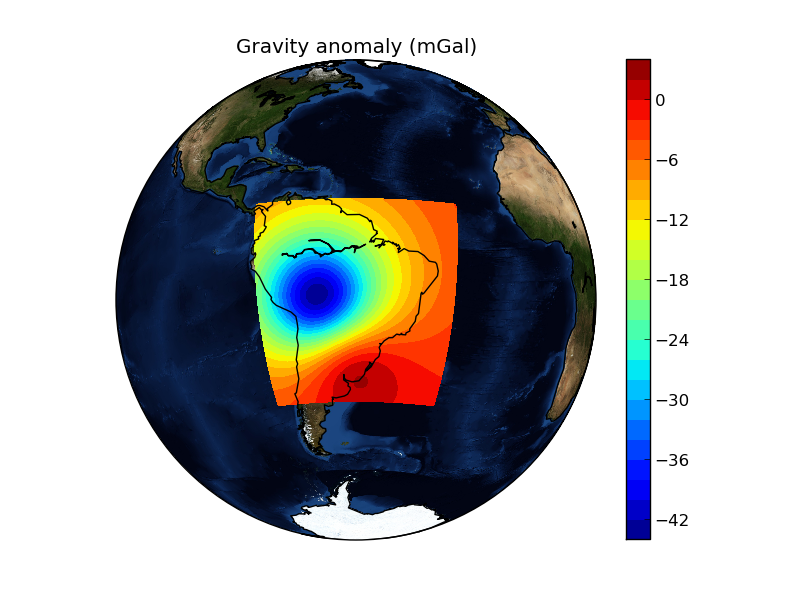
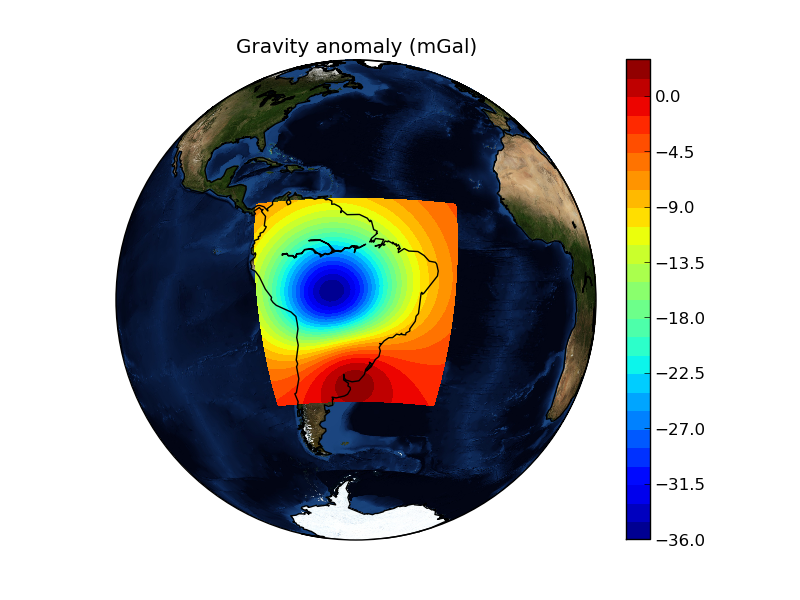
Moved tesseroid model to meshes section

diff --git a/papers/leonardo_uieda/leonardo_uieda.rst b/papers/leonardo_uieda/leonardo_uieda.rst
@@ -376,6 +376,45 @@ using synthetic topography
     Example of generating and visualizing a prism mesh with masked topography.
     :label:`meshtopo`
 
+
+Modeling tesseroids
+(Figure :ref:`tesseroid`):
+
+.. code-block:: python
+
+    model = [
+        mesher.Tesseroid(-60, -55, -30, -27, 500000, 0,
+            props={'density':200}),
+        mesher.Tesseroid(-66, -55, -20, -10, 300000, 0,
+            props={'density':-100})]
+    fig = myv.figure(zdown=False)
+    myv.tesseroids(model, 'density')
+    myv.continents(linewidth=2)
+    myv.earth(opacity=1)
+    myv.meridians(range(0, 360, 45), opacity=0.2)
+    myv.parallels(range(-90, 90, 45), opacity=0.2)
+    # Rotate the camera to get a good view
+    scene = fig.scene
+    scene.camera.position = [21199620.406122234,
+        -12390254.839673528, -14693312.866768979]
+    scene.camera.focal_point = [-535799.97230670298,
+        -774902.33205294283, 826712.82283183688]
+    scene.camera.view_angle = 19.199999999999996
+    scene.camera.view_up = [0.33256519487680014,
+        -0.47008782429014295, 0.81756824095039038]
+    scene.camera.clipping_range = [7009580.0037488714,
+        55829873.658824757]
+    scene.camera.compute_view_plane_normal()
+    scene.render()
+    myv.show()
+
+.. figure:: meshes_3dplotting_tesseroid.png
+
+    Example of creating a tesseroid (spherical prism) model and visualizing it
+    in Mayavi.
+    :label:`tesseroid`
+
+
 Forward modeling
 ----------------
 
@@ -402,19 +441,18 @@ For example,
 the module ``fatiando.gravmag.tesseroid``
 is a Python implementation of
 the program Tesseroids (http://leouieda.github.io/tesseroids)
-and calculates the gravity anomaly
-of tesseroids, e.g. spherical prisms
+and calculates the gravitational fields
+of tesseroids (e.g., spherical prisms).
+The following example
+shows how to calculate
+the gravity anomaly
+of the tesseroid model
+of the previous section
 (Figure :ref:`tesseroidgrav`):
 
 .. code-block:: python
 
-    from fatiando import gravmag, gridder, mesher
-    from fatiando.vis import mpl, myv
-    model = [
-        mesher.Tesseroid(-60, -55, -30, -27, 500000, 0,
-            props={'density':200}),
-        mesher.Tesseroid(-66, -62, -18, -12, 300000, 0,
-            props={'density':-500})]
+    from fatiando import gravmag
     area = [-80, -30, -40, 10]
     shape = (50, 50)
     lons, lats, heights = gridder.regular(area, shape,
@@ -429,31 +467,11 @@ of tesseroids, e.g. spherical prisms
     mpl.contourf(lons, lats, gz, shape, 30, basemap=bm)
     mpl.colorbar()
     mpl.show()
-    fig = myv.figure(zdown=False)
-    scene = fig.scene
-    myv.tesseroids(model, 'density')
-    myv.continents(linewidth=2)
-    myv.earth(opacity=0.8)
-    myv.meridians(range(0, 360, 45), opacity=0.2)
-    myv.parallels(range(-90, 90, 45), opacity=0.2)
-    scene.camera.position = [21199620.406122234,
-        -12390254.839673528, -14693312.866768979]
-    scene.camera.focal_point = [-535799.97230670298,
-        -774902.33205294283, 826712.82283183688]
-    scene.camera.view_angle = 19.199999999999996
-    scene.camera.view_up = [0.33256519487680014,
-        -0.47008782429014295, 0.81756824095039038]
-    scene.camera.clipping_range = [7009580.0037488714,
-        55829873.658824757]
-    scene.camera.compute_view_plane_normal()
-    scene.render()
-    myv.show()
 
-.. figure:: gravmag_tesseroid.png
+.. figure:: gravmag_tesseroid_data.png
 
-    Example of forward modeling using tesseroids (e.g., spherical prisms).
-    a) a tesseroid model.
-    b) the modeled gravity anomaly of the tesseroid model.
+    Example of forward modeling the gravity anomaly using the tesseroid model
+    shown in Figure :ref:`tesseroid`.
     :label:`tesseroidgrav`
 
 The module ``fatiando.gravmag.polyprism``
